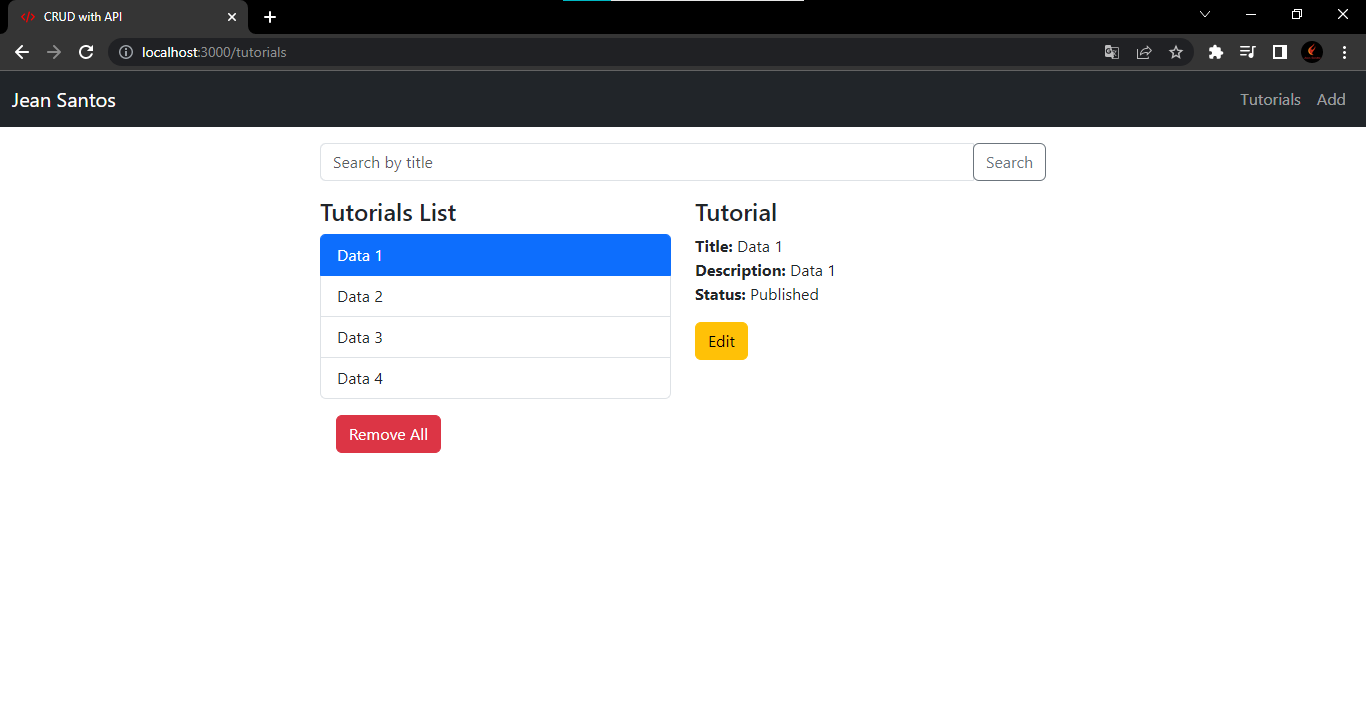
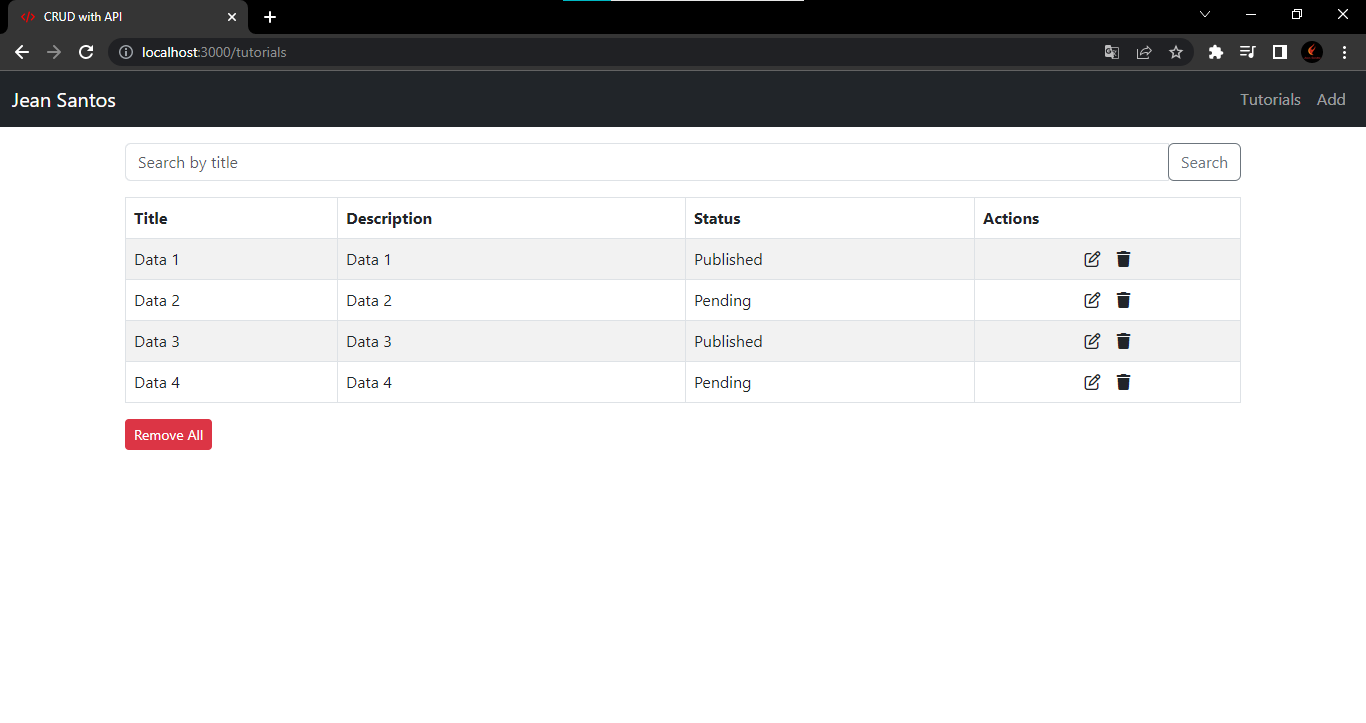
CRUD with API and React Tables

diff --git a/src/components/TutorialsList.tsx b/src/components/TutorialsList.tsx
@@ -1,21 +1,29 @@
 // Hooks and Types React
-import { ChangeEvent, useEffect, useState } from "react";
+import { ChangeEvent, useEffect, useMemo, useRef, useState } from "react";
 // React Router DOM
-import { Link } from "react-router-dom";
+import { useNavigate } from "react-router-dom";
 // Services
-import { findItemByTitle, getAllItem, removeAllItems } from "../services/TutorialService";
+import { findItemByTitle, getAllItem, removeAllItems, removeItem } from "../services/TutorialService";
 // Interfaces
-import ITutorialData from "../types/Tutorial";
+import ITutorialData from '../types/Tutorial';
+// Components
+import { Search } from "./Search";
+// React tables
+import { CellProps, CellValue, Column, useTable } from 'react-table'
+// Sweet Alert
+import Swal from "sweetalert2";
 
 export const TutorialsList = () => {
 
   const [tutorials, setTutorials] = useState<Array<ITutorialData>>([]);
-  const [currentTutorial, setCurrentTutorial] = useState<ITutorialData | null>(null);
-  const [currentIndex, setCurrentIndex] = useState<number>(-1);
-  const [searchTitle, setSearchTitle] = useState<string>("");
+  const [searchTitle, setSearchTitle] = useState<string>('');
+  const tutorialsRef = useRef<Array<ITutorialData>>([]);
+  let navigate = useNavigate();
+
+  tutorialsRef.current = tutorials;
 
   useEffect(() => {
-    retrieveTutorials();
+    retrieveTutorials()
   }, []);
 
   const onChangeSearchTitle = (e: ChangeEvent<HTMLInputElement>) => {
@@ -33,13 +41,6 @@ export const TutorialsList = () => {
 
   const refreshList = () => {
     retrieveTutorials();
-    setCurrentTutorial(null);
-    setCurrentIndex(-1);
-  };
-
-  const setActiveTutorial = (tutorial: ITutorialData, index: number) => {
-    setCurrentTutorial(tutorial);
-    setCurrentIndex(index);
   };
 
   const removeAllTutorials = () => {
@@ -54,100 +55,126 @@ export const TutorialsList = () => {
     findItemByTitle(searchTitle)
       .then(({ data }) => {
         setTutorials(data);
-        setCurrentTutorial(null);
-        setCurrentIndex(-1);
       })
       .catch((e: Error) => console.log(e))
   };
 
+  const openTutorial = (rowIndex: number) => {
+    const id = tutorialsRef.current[rowIndex].id;
+    navigate('/tutorials/' + id)
+  };
+
+  const deleteTutorial = (rowIndex: number) => {
+    const id = tutorialsRef.current[rowIndex].id;
+    removeItem(id)
+      .then(() => {
+        Swal.fire(`${tutorialsRef.current[rowIndex].title} successfully deleted.`, '', 'success');
+
+        navigate('/tutorials')
+        let newTutorials = [...tutorialsRef.current];
+        newTutorials.splice(rowIndex, 1);
+
+        setTutorials(newTutorials);
+      })
+      .catch((e) => {
+        console.log(e);
+      });
+  };
+
+  const columns: Column<ITutorialData>[] = useMemo(() => [
+    {
+      Header: 'Title',
+      accessor: 'title' as keyof ITutorialData,
+    },
+    {
+      Header: 'Description',
+      accessor: 'description' as keyof ITutorialData,
+    },
+    {
+      Header: 'Status',
+      accessor: 'published' as keyof ITutorialData,
+      Cell: ({ value }: CellProps<ITutorialData>): CellValue => {
+        return value ? 'Published' : 'Pending';
+      }
+    },
+    {
+      Header: 'Actions',
+      accessor: 'actions' as CellValue,
+      Cell: ({ row }: CellProps<ITutorialData>): JSX.Element => {
+        const rowIdx = row.id;
+        return (
+          <div className='d-flex justify-content-center'>
+            <span onClick={() => openTutorial(parseInt(rowIdx))}>
+              <i className="far fa-edit action mx-2"></i>
+            </span>
+            <span onClick={() => deleteTutorial(parseInt(rowIdx))}>
+              <i className="fas fa-trash action mx-2"></i>
+            </span>
+          </div>
+        )
+      }
+    }
+    // eslint-disable-next-line
+  ], [])
+
+  const {
+    getTableProps,
+    getTableBodyProps,
+    prepareRow,
+    headerGroups,
+    rows,
+  } = useTable<ITutorialData>({ columns, data: tutorials })
 
   return (
     <div className="list row">
-      <div className="col-12">
-        <div className="input-group mb-3">
-          <input
-            type="text"
-            className="form-control"
-            placeholder="Search by title"
-            value={searchTitle}
-            onChange={onChangeSearchTitle}
-          />
-          <div className="input-group-append">
-            <button
-              className="btn btn-outline-secondary"
-              type="button"
-              onClick={findByTitle}
-            >
-              Search
-            </button>
-          </div>
-        </div>
-      </div>
-      <div className="col-md-6">
-        <h4>Tutorials List</h4>
 
-        <ul className="list-group">
-          {
-            tutorials &&
-            tutorials.map((tutorial, index) => (
-              <li
-                className={
-                  "list-group-item " + (index === currentIndex ? "active" : "")
-                }
-                onClick={() => setActiveTutorial(tutorial, index)}
-                key={index}
-              >
-                {tutorial.title}
-              </li>
-            ))
-          }
-        </ul>
+      <Search searchTitle={searchTitle} onChangeSearchTitle={onChangeSearchTitle} findByTitle={findByTitle} />
 
-        <button
-          className="m-3 btn btn-danger"
-          onClick={removeAllTutorials}
+      <div className="col-md-12 list">
+        <table
+          className="table table-striped table-bordered table-hover"
+          {...getTableProps()}
         >
+          <thead>
+            {
+              headerGroups.map(headerGroup => (
+                <tr {...headerGroup.getHeaderGroupProps()}>
+                  {
+                    headerGroup.headers.map((column) => (
+                      <th {...column.getHeaderProps()}>
+                        {column.render("Header")}
+                      </th>
+                    ))
+                  }
+                </tr>
+              ))
+            }
+          </thead>
+          <tbody {...getTableBodyProps()}>
+            {
+              rows.map((row, i) => {
+                prepareRow(row);
+                return (
+                  <tr {...row.getRowProps()}>
+                    {
+                      row.cells.map((cell) => {
+                        return (
+                          <td {...cell.getCellProps()}>{cell.render("Cell")}</td>
+                        );
+                      })
+                    }
+                  </tr>
+                );
+              })
+            }
+          </tbody>
+        </table>
+      </div>
+
+      <div className="col-md-8">
+        <button className="btn btn-sm btn-danger" onClick={removeAllTutorials}>
           Remove All
         </button>
-      </div>
-      <div className="col-md-6">
-        {
-          currentTutorial ? (
-            <div>
-              <h4>Tutorial</h4>
-              <div>
-                <label>
-                  <strong>Title:</strong>
-                </label>{" "}
-                {currentTutorial.title}
-              </div>
-              <div>
-                <label>
-                  <strong>Description:</strong>
-                </label>{" "}
-                {currentTutorial.description}
-              </div>
-              <div>
-                <label>
-                  <strong>Status:</strong>
-                </label>{" "}
-                {currentTutorial.published ? "Published" : "Pending"}
-              </div>
-
-              <Link
-                to={"/tutorials/" + currentTutorial.id}
-                className="btn btn-warning mt-3"
-              >
-                Edit
-              </Link>
-            </div>
-          ) : (
-            <div>
-              <br />
-              <p>Please click on a Tutorial...</p>
-            </div>
-          )
-        }
       </div>
     </div>
   )

diff --git a/src/components/Search.tsx b/src/components/Search.tsx
@@ -1,0 +1,32 @@
+import { ChangeEvent } from "react";
+
+interface Props {
+    searchTitle: string;
+    onChangeSearchTitle: (e: ChangeEvent<HTMLInputElement>) => void;
+    findByTitle: () => void;
+}
+
+export const Search = ({ searchTitle, onChangeSearchTitle, findByTitle }: Props) => {
+    return (
+        <div className="col-12">
+            <div className="input-group mb-3">
+                <input
+                    type="text"
+                    className="form-control"
+                    placeholder="Search by title"
+                    value={searchTitle}
+                    onChange={onChangeSearchTitle}
+                />
+                <div className="input-group-append">
+                    <button
+                        className="btn btn-outline-secondary"
+                        type="button"
+                        onClick={findByTitle}
+                    >
+                        Search
+                    </button>
+                </div>
+            </div>
+        </div>
+    )
+}

diff --git a/public/index.html b/public/index.html
@@ -6,6 +6,9 @@
   <link rel="icon" href="%PUBLIC_URL%/favicon.ico" />
   <meta name="viewport" content="width=device-width, initial-scale=1" />
   <meta name="description" content="Web site created by Jean Santos" />
+  <link rel="stylesheet" href="https://cdnjs.cloudflare.com/ajax/libs/font-awesome/6.3.0/css/all.min.css"
+    integrity="sha512-SzlrxWUlpfuzQ+pcUCosxcglQRNAq/DZjVsC0lE40xsADsfeQoEypE+enwcOiGjk/bSuGGKHEyjSoQ1zVisanQ=="
+    crossorigin="anonymous" referrerpolicy="no-referrer" />
   <title>CRUD with API</title>
 </head>
 

diff --git a/src/index.css b/src/index.css
@@ -1,7 +1,5 @@
-.list {
-  text-align: left;
-  max-width: 750px;
-  margin: auto;
+.list .action {
+  cursor: pointer;
 }
 
 .submit-form {
@@ -12,4 +10,9 @@
 .edit-form {
   max-width: 300px;
   margin: auto;
+}
+
+.table{
+  --bs-table-hover-color: black;
+  --bs-table-hover-bg: #1686f56b;
 }

diff --git a/README.md b/README.md
@@ -1,13 +1,14 @@
 # CRUD With API
 
-<!-- Extraido de: https://www.bezkoder.com/react-typescript-api-call/ -->
-
-[DEMO](https://server-crud.onrender.com/)
+<!-- Extraido de: https://www.bezkoder.com/react-table-example-hooks-crud/ -->
+<!-- Extraido de: https://github.com/bezkoder/react-table-crud-example -->
 
 Instalaciones:
 * React Router Dom
 * Axios
 * Bootstrap
+* [React Table](https://www.npmjs.com/package/react-table)
+* FontAwesome
 
 ```
 npm i react-router-dom
@@ -15,6 +16,15 @@ npm i react-router-dom
 npm i axios
 
 npm i bootstrap@5.3.0-alpha1
+
+npm i react-table
+npm i --save-dev @types/react-table
+```
+
+```
+<!-- IMPORT FONTAWESOME INDEX.HTML -->
+
+<link rel="stylesheet" href="https://cdnjs.cloudflare.com/ajax/libs/font-awesome/6.3.0/css/all.min.css" integrity="sha512-SzlrxWUlpfuzQ+pcUCosxcglQRNAq/DZjVsC0lE40xsADsfeQoEypE+enwcOiGjk/bSuGGKHEyjSoQ1zVisanQ==" crossorigin="anonymous" referrerpolicy="no-referrer" />
 ```
 
 # Screenshots
